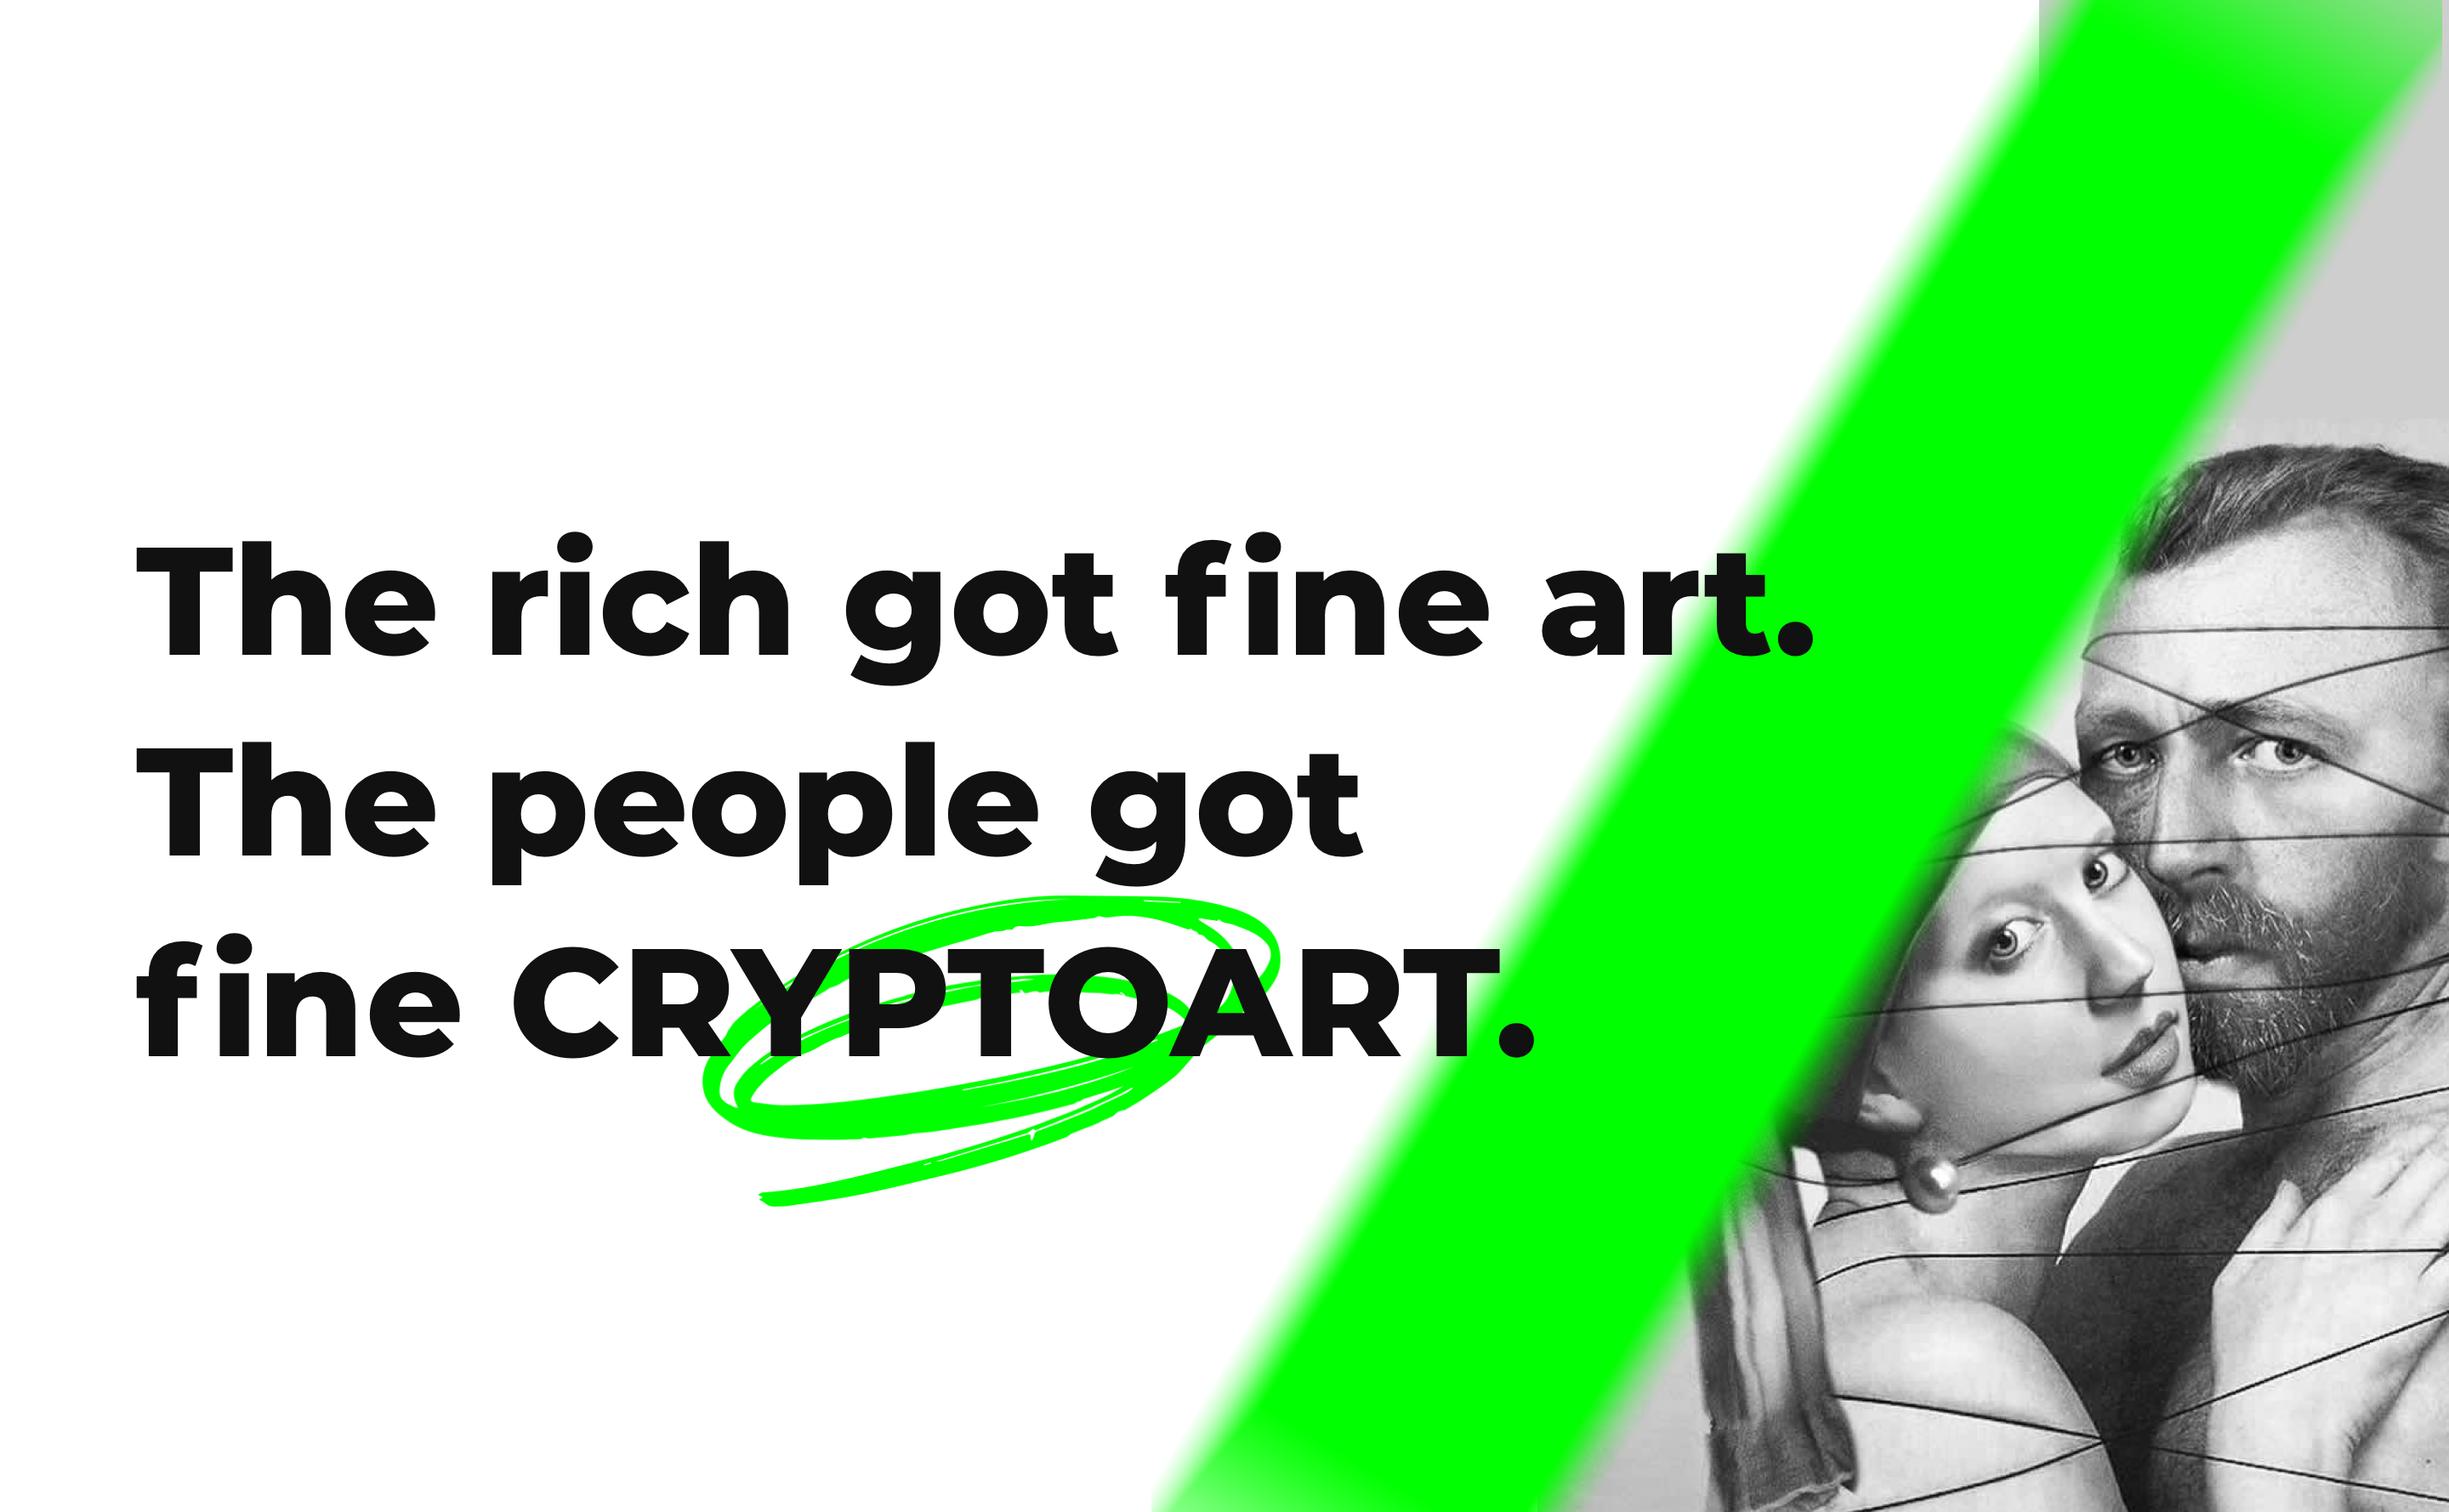
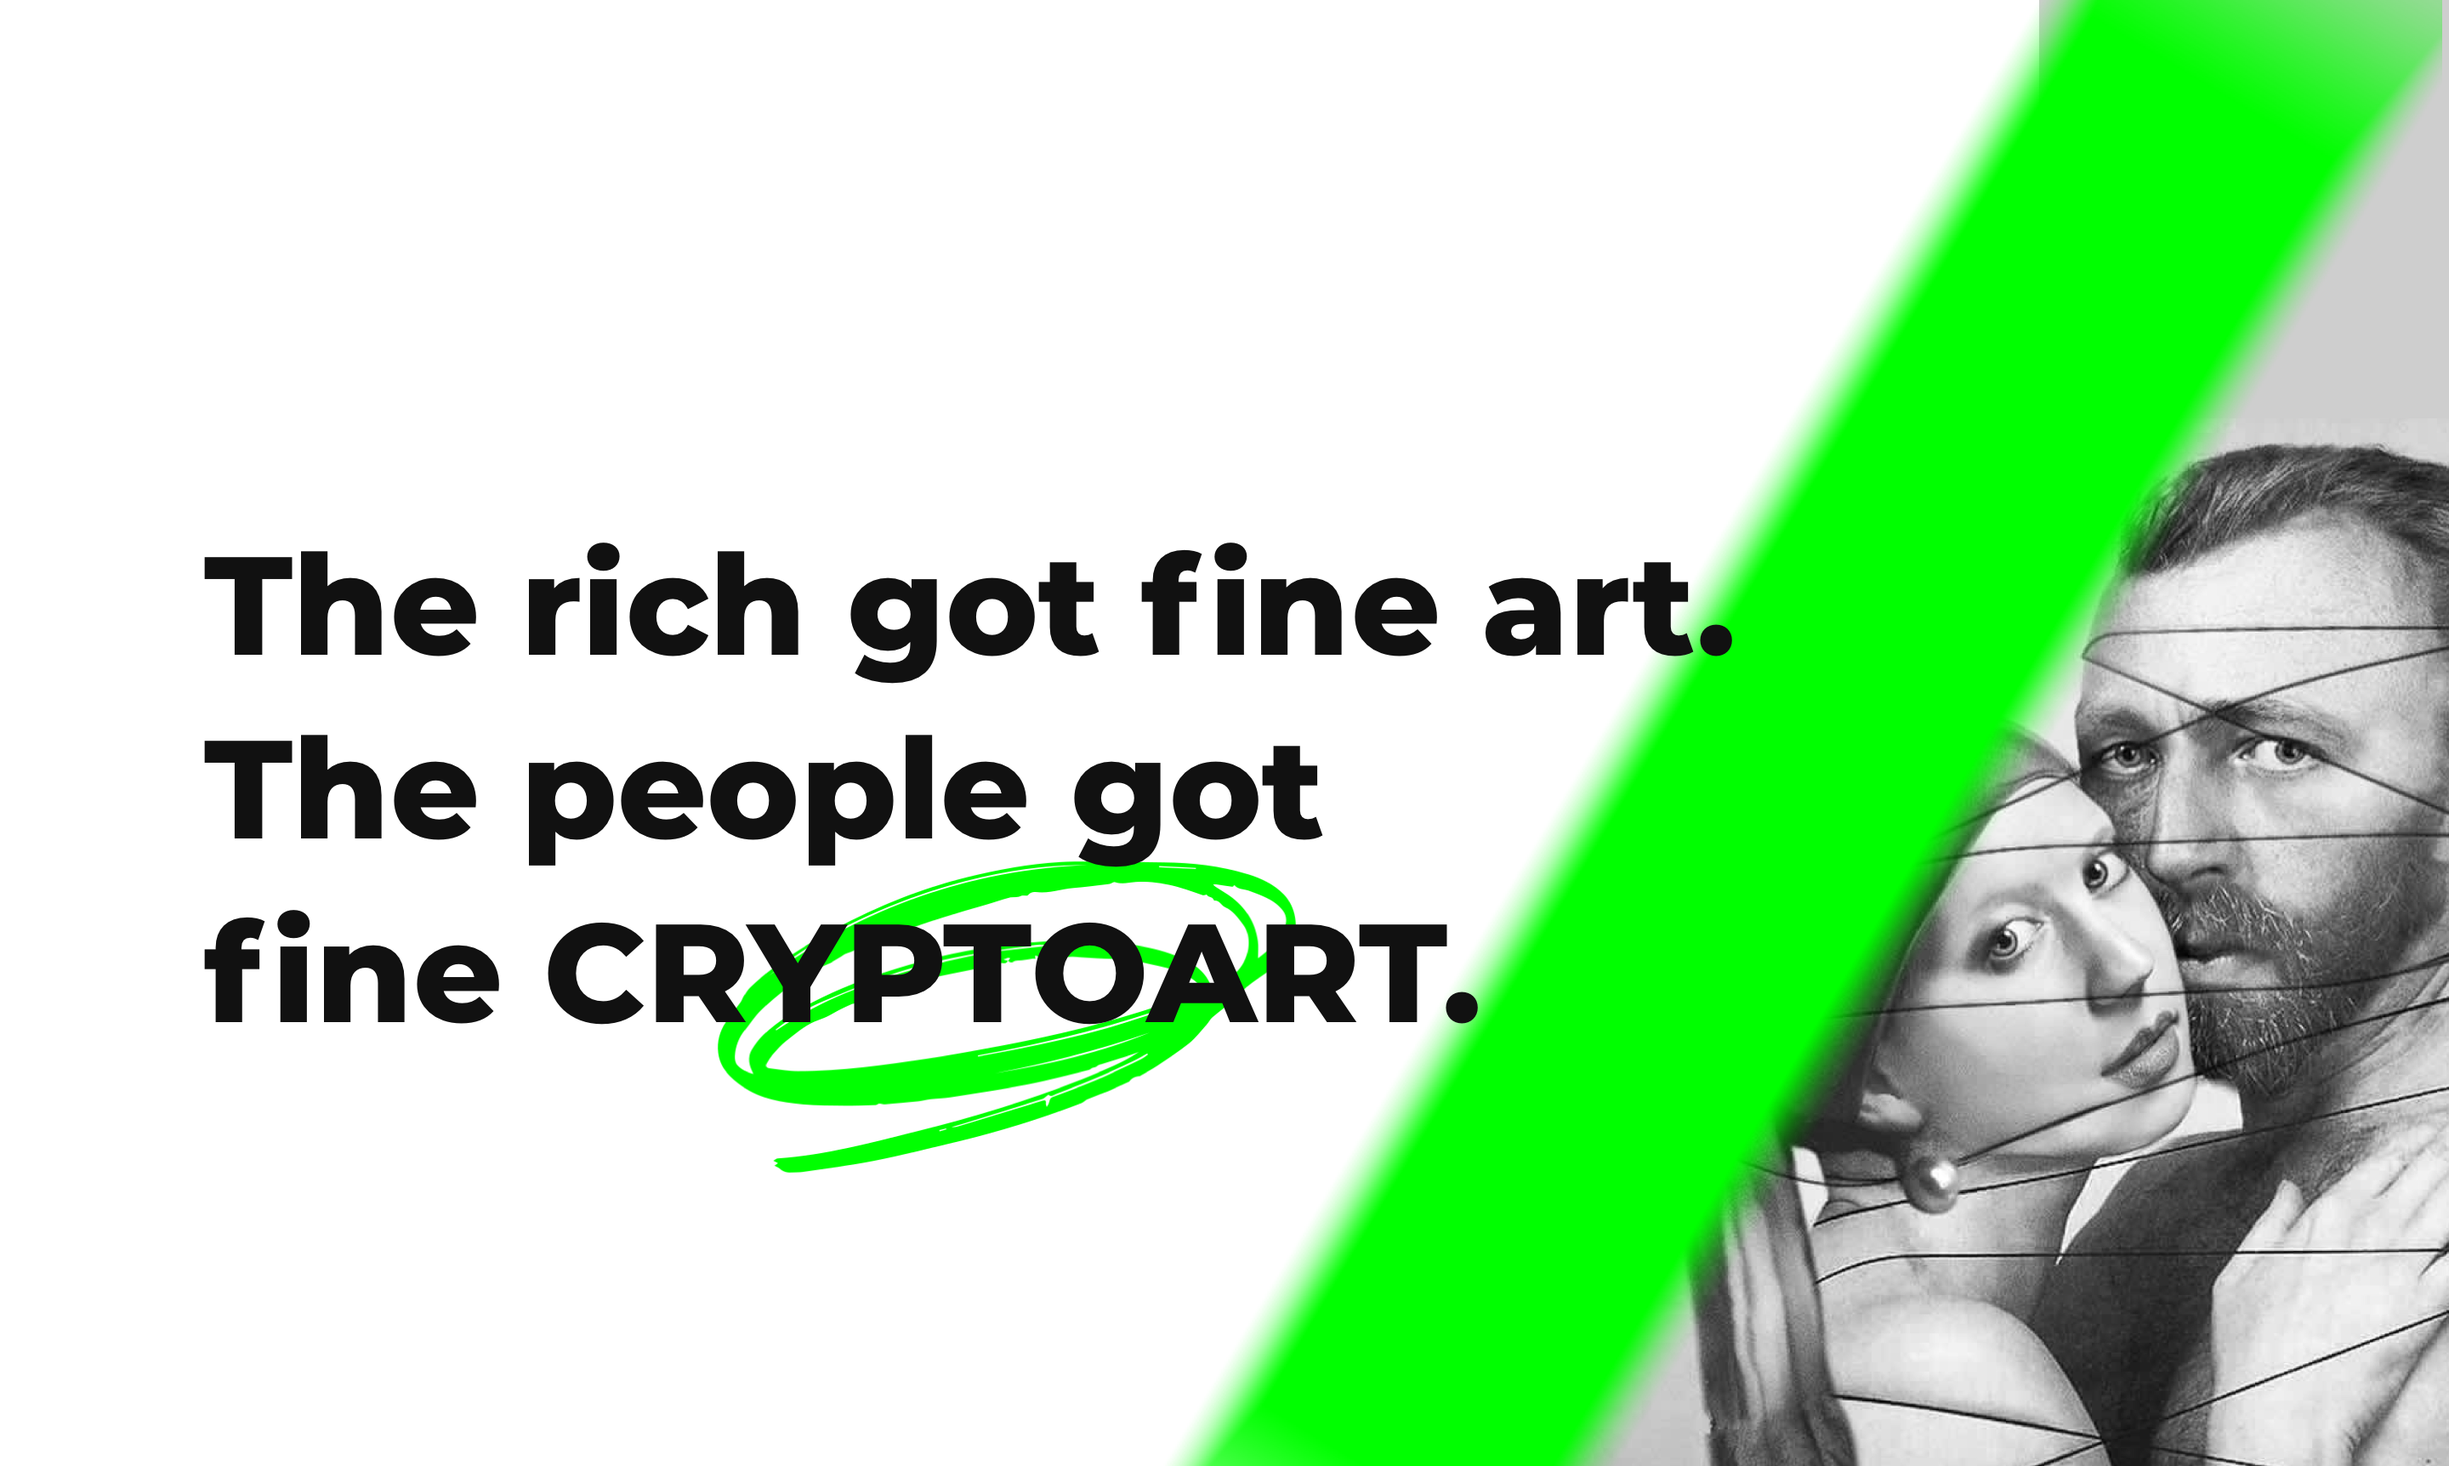
mod: image changed; font-family modified

Changed region(s): [[0.0312, 0.1845, 0.7812, 1.0], [0.625, 0.2152, 1.0, 1.0]]

diff --git a/src/modules/home/index.js b/src/modules/home/index.js
@@ -1,8 +1,8 @@
-import { useEffect, useContext } from 'react';
-
+// import { useEffect, useContext } from 'react';
+import classnames from 'classnames';
 import InputBase from '@material-ui/core/InputBase';
-import Divider from '@material-ui/core/Divider';
-import IconButton from '@material-ui/core/IconButton';
+// import Divider from '@material-ui/core/Divider';
+// import IconButton from '@material-ui/core/IconButton';
 // import DirectionsIcon from '@material-ui/icons/Directions';
 import Paper from '@material-ui/core/Paper';
 import ListBlock from './ListBlock';
@@ -105,7 +105,7 @@ const ModHome = () => {
           )}
         </div>
         <div className={`${styles.row} ${styles.row_sub}`}>
-          <div className={styles.row_title}>{_t('p.subscribe.new')}</div>
+          <div className={classnames(styles.row_title, 'en-app-font')}>{_t('p.subscribe.new')}</div>
           <Paper className={styles.subscribe}>
             <InputBase
               className={styles.input}

diff --git a/src/modules/artvunue/detail.js b/src/modules/artvunue/detail.js
@@ -1,5 +1,7 @@
 
 
+
+import classnames from 'classnames';
 import UserLine from '@/components/UserLine';
 
 
@@ -35,7 +37,7 @@ const ArtDetail = () => {
               <div>
                 <div className={styles.info_title}>所向披靡#意志</div>
                 <div className={styles.info_subtitle}>Edition 1 of 1</div>
-                <div className={styles.info_desc}>
+                <div className={classnames(styles.info_desc)}>
                   <p>我将永远忠于自己，</p>
                   <p>披星戴月奔向理想和自由。</p>
                   <p>我将永远忠于自己，</p>
@@ -57,7 +59,7 @@ const ArtDetail = () => {
             </div>
         </div>
         <div className={styles.part_his}>
-          <div className={styles.his_title}>
+          <div className={classnames(styles.his_title, 'en-app-font')}>
             {_t('p.history')}
           </div>
           <div className={styles.his_list}>

diff --git a/src/context/locale.js b/src/context/locale.js
@@ -1,10 +1,16 @@
 
 import React, { useState, useCallback, useMemo, useEffect } from 'react';
-import { useSelector } from 'dva';
-import { formatMessage, setLocale, getLocale } from 'umi-plugin-react/locale';
+// import { useSelector } from 'dva';
+import { setLocale, getLocale } from 'umi-plugin-react/locale';
 
 
 const defaultLang = 'zh-CN';
+
+const LangClassMap = {
+  'zh-CN': 'app-cn',
+  'en-US': 'app-en',
+}
+
 
 export const LocaleContext = React.createContext({
   lang: defaultLang,
@@ -23,7 +29,9 @@ export const LocaleProvider = (props) => {
 
   // 初始化，同步已有的数据
   useEffect(() => {
-    updateLang(getLocale() || defaultLang);
+    const lang = getLocale() || defaultLang;
+    updateLang(lang);
+    document.body.classList.add(LangClassMap[lang]);
   }, []);
 
   return (

diff --git a/src/components/Head/index.js b/src/components/Head/index.js
@@ -46,6 +46,11 @@ const Tabs = [
   },
 ];
 
+const LangClassMap = {
+  'zh-CN': 'app-cn',
+  'en-US': 'app-en',
+}
+
 const Head = (props) => {
 
   const { pathname } = props.location
@@ -57,12 +62,14 @@ const Head = (props) => {
     if(_curTab.length){
       updateCurTab(_curTab[0].code)
     }
-  }, [pathname])
+  }, [pathname]);
   const onClick = useCallback((e) => {
     const url = (e.target.dataset || {}).url;
     if(url === '__lang__') {
       const nextLocale = lang === 'zh-CN' ? 'en-US' : 'zh-CN';
       updateLang(nextLocale);
+      document.body.classList.remove(LangClassMap[lang]);
+      document.body.classList.add(LangClassMap[nextLocale]);
       return;
     }
     if(url) {

diff --git a/src/modules/home/ListBlock/index.js b/src/modules/home/ListBlock/index.js
@@ -1,5 +1,6 @@
 
 import { useCallback } from 'react';
+import classnames from 'classnames';
 import router from 'umi/router';
 
 import CardItem from '@/components/CardItem';
@@ -19,7 +20,7 @@ const ListBlock = (list, title, link) => {
   }, []);
   return (
     <div className={styles.list_block}>
-        <div className={styles.list_title}>{title}</div>
+        <div className={classnames(styles.list_title, 'en-app-font')}>{title}</div>
         <div className={styles.list_wrapper}>
           {list.map(li => {
             return <div className={styles.list_item} key={li.id}>

diff --git a/src/layouts/index.js b/src/layouts/index.js
@@ -1,3 +1,5 @@
+import { useEffect } from 'react';
+
 import { Web3InjectProvider } from '@/context/web3inject';
 import { PolkadotProvider } from '@/context/polkadot';
 import { AccountsProvider } from '@/context/accounts';
@@ -7,7 +9,6 @@ import Head from '@/components/Head';
 import Foot from '@/components/Foot';
 
 import styles from './index.less';
-import { useEffect } from 'react';
 
 const pathesWithoutPaddingTop = ['/'];
 

diff --git a/src/modules/home/InfoBlock/index.js b/src/modules/home/InfoBlock/index.js
@@ -23,7 +23,7 @@ const InfoBlock = (info, imageLeft = false) => {
           <div className={styles.info_title}>
             {title}
           </div>
-          <div className={styles.info_content}>{
+          <div className={classnames(styles.info_content, 'en-app-font')}>{
             contents.map((cnt, idx) => {
             return <div key={idx} className={styles.cnt}>{cnt}</div>
             })

diff --git a/src/modules/artvunue/style.less b/src/modules/artvunue/style.less
@@ -13,7 +13,7 @@
   color: #3B3B3B;
 }
 .info_desc{
-  font-family: Montserrat;
+  font-family: MoPingFangSC-Ultralight;
   font-size: 30 * @px_base;
   color: #212121;
 }
@@ -58,7 +58,7 @@
 }
 
 .his_title{
-  font-family: Montserrat;
+  font-family: PingFangSC-Ultralight;
   font-size: 48 * @px_base;
   color: #3B3B3B;
   margin-bottom: 28 * @px_base;

diff --git a/src/modules/home/ListBlock/style.less b/src/modules/home/ListBlock/style.less
@@ -3,7 +3,7 @@
 .list_block{
   margin-top: 84 * @px_base;
   .list_title{
-    font-family: Montserrat;
+    font-family: PingFangSC-Ultralight;;
     font-size: 48 * @px_base;
     color: #212121;
     margin-bottom: 28 * @px_base;

diff --git a/src/modules/home/InfoBlock/style.less b/src/modules/home/InfoBlock/style.less
@@ -19,7 +19,7 @@
     margin-bottom: 24 * @px_base;
   }
   .info_content{
-    font-family: Montserrat;
+    font-family: PingFangSC-Ultralight;;
     font-size: 30 * @px_base;
     color: #212121;
   }

diff --git a/src/modules/home/style.less b/src/modules/home/style.less
@@ -5,7 +5,7 @@
     margin-bottom: 120 * @px_base;
   }
   .row_title{
-    font-family: Montserrat;
+    font-family: PingFangSC-Ultralight;;
     font-size: 40 * @px_base;
     color: #212121;
   }

diff --git a/src/global.css b/src/global.css
@@ -17,3 +17,9 @@ body {
   align-items: center;
   justify-content: center;
 }
+
+
+.app-en .en-app-font{
+  font-family: Montserrat PingFangSC !important;
+  font-weight: 300!important;
+}
